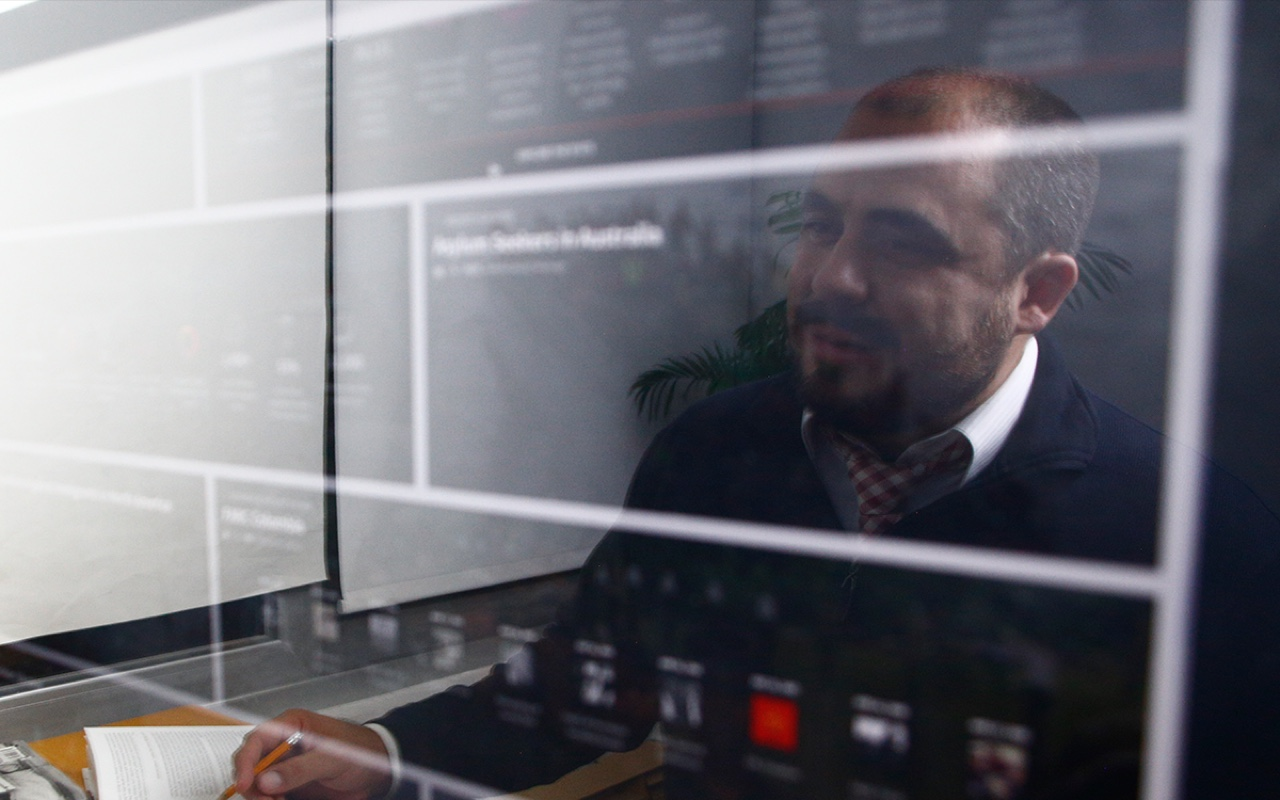
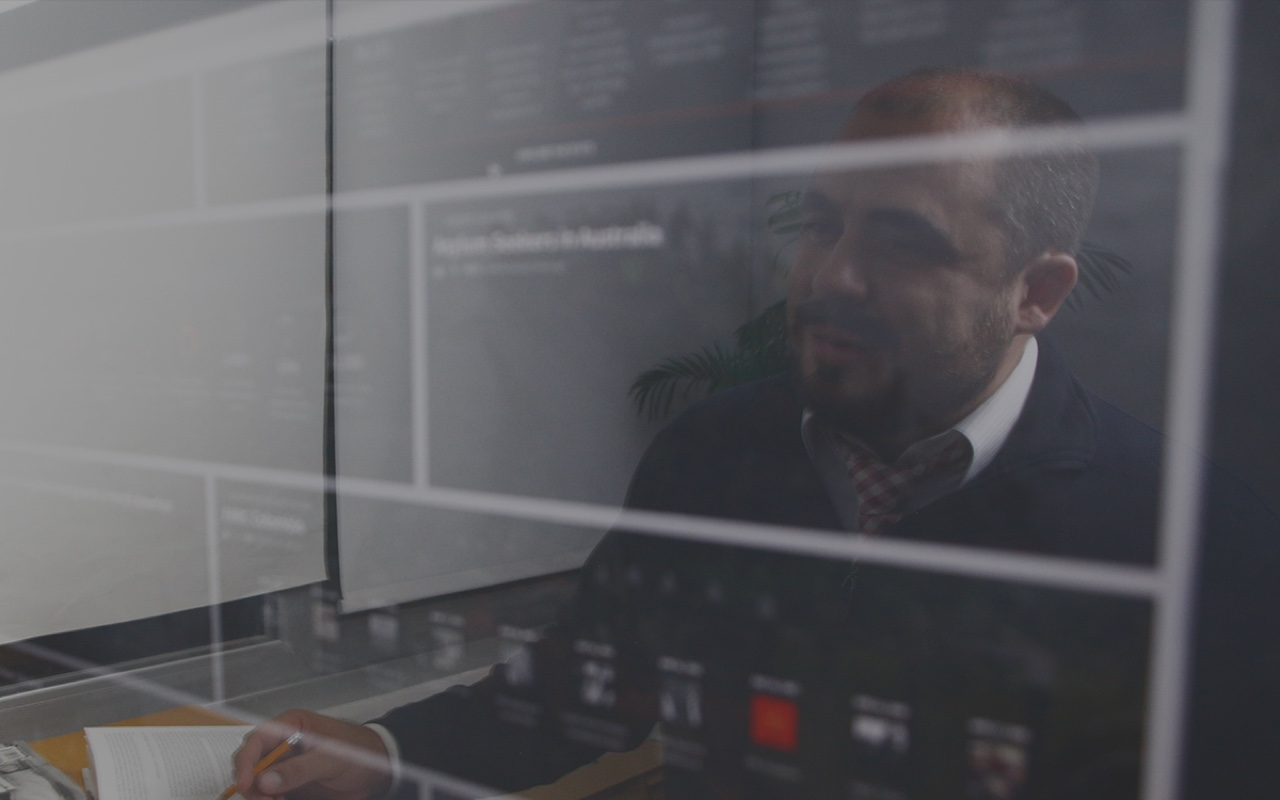
remove / independent matisse layer, matisse is now included on the images instead

diff --git a/public/js/data/home/slides.js b/public/js/data/home/slides.js
@@ -6,8 +6,7 @@ module.exports = [
         className : 'slides__intro',
         gradient : '-gradient-01',
         bg : {
-            image: '/img/views/home/slides/01.jpg',
-            className : '-matisse'
+            image: '/img/views/home/slides/01.jpg'
         },
         title : {
             text : 'Hello! We are Empathia',
@@ -27,8 +26,7 @@ module.exports = [
         className : 'slides__cv-org',
         gradient : '-gradient-gray',
         bg : {
-            image: '/img/views/home/slides/02.jpg',
-            className : '-matisse'
+            image: '/img/views/home/slides/02.jpg'
         },
         title : {
             text : 'CrowdVoice.org',
@@ -50,8 +48,7 @@ module.exports = [
         className : 'slides__cv-by',
         gradient : '-gradient-tm',
         bg : {
-            image: '/img/views/home/slides/03.jpg',
-            className : '-matisse'
+            image: '/img/views/home/slides/03.jpg'
         },
         title : {
             text : 'CrowdVoice.by',

diff --git a/public/js/ui/PageCover.js b/public/js/ui/PageCover.js
@@ -3,7 +3,7 @@ var addClass = require('./../lib/utils/class-add');
 Class(EM.UI, 'PageCover').inherits(Widget)({
     HTML : '\
         <header class="page__header -abs-before">\
-            <div class="page__header-bg -img-cover -matisse"></div>\
+            <div class="page__header-bg -img-cover"></div>\
             <div class="page__header-intro">\
                 <p class="page__header-subheading -font-light -ttu"></p>\
                 <h1 class="page__header-heading -font-bold"></h1>\

diff --git a/public/js/ui/GridItemClone.js b/public/js/ui/GridItemClone.js
@@ -4,7 +4,7 @@ Class(EM.UI, 'GridItemClone').inherits(Widget)({
     ELEMENT_CLASS : 'grid__item-clone -fix',
     HTML : '\
         <div class="-abs-before">\
-            <div data-inner class="grid__item-clone-inner -img-cover -matisse -full-height -rel"></div>\
+            <div data-inner class="grid__item-clone-inner -img-cover -full-height -rel"></div>\
         </div>',
 
     prototype : {

diff --git a/public/css/ui/gradients.less b/public/css/ui/gradients.less
@@ -18,12 +18,6 @@
   background-image: linear-gradient(to right, @accent-pink, @accent-greyblue);
 }
 
-.-matisse::after {
-  &:extend(.-abs-after::after);
-  background-color: #474747;
-  opacity: .5;
-}
-
 /* greayscale */
 .-gradient-gray::before {
   background-image: linear-gradient(30deg, #525252, #444, #323232);
